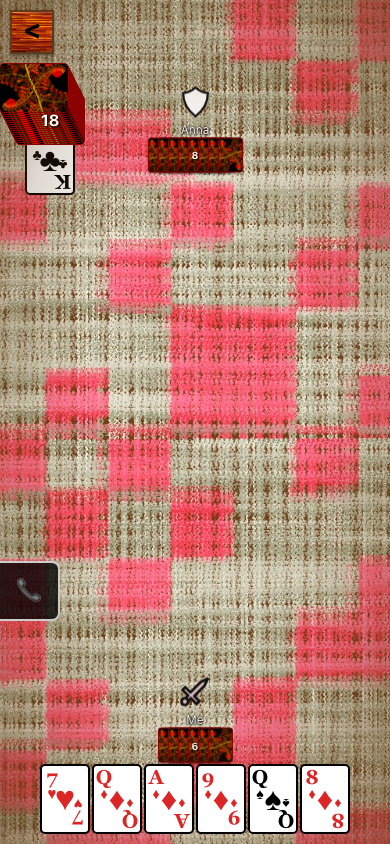
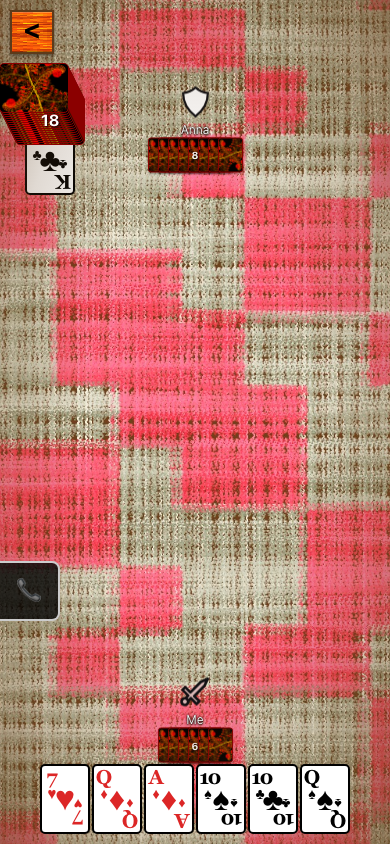
cdom_poc README: warm textures asked at start (x1: all decoded 133 against the TS page's 139; x4 326 against 171, behind the page's own start-up at x4), measured under a load of 29-73 and noted; first paint paired at low load; the 390x844 wool count back at 20,9xx (software raster), the store's toke

diff --git a/foolish/c/cdom_poc/README.md b/foolish/c/cdom_poc/README.md
@@ -31,7 +31,7 @@ Live play against c_base and sign-in are next steps, not part of this PoC; the n
 - `src/trig.c`: sin, cos and tan for the wool and the fern (musl's polynomials, a reduction for arguments below 2^28) and JS's `%` for the wood (141 lines).
 - `src/crtrig.c`: cos rounded correctly, as Chrome's is, for the wood (139 lines).
 - `src/index.html`: the page; `build.sh` inlines the minified shim into it.
-- `vendor/`: cdom from `/Users/alex/Dev/cdom-fixes`, branch port-fixes, commit 8b9266f, unchanged (`src/cdom.c`, `src/cdom.h`, `src/cdom_net.c`, `src/cdom_net.h`, `src/cdom_store.c`, `src/cdom_store.h`, `src/mini.c`, `shim/cdom.js`).
+- `vendor/`: cdom from `/Users/alex/Dev/cdom-fixes`, branch port-fixes, commit b051ddf, unchanged (`src/cdom.c`, `src/cdom.h`, `src/cdom_net.c`, `src/cdom_net.h`, `src/cdom_store.c`, `src/cdom_store.h`, `src/mini.c`, `shim/cdom.js`).
   The table links `cdom_store.c` (the textures across loads) but not `mini.c` (the kernel's libc brings memcmp and strlen) nor `cdom_net.c` (it has no network yet); the network test links the network.
 - `tests/net_test.c`, `tests/net_test.mjs`: cdom's network imports against a local echo server.
 - `tests/tex_test.c`: the texture generators alone, for `tools/texparity.mjs`.
@@ -79,7 +79,9 @@ After the first paint the DOM is the browser's: a patched card is one `style.set
 
 With textures, `shots/react_golden_tex.png` is the golden with the app's TS textures, at the app's sizes (the fern 1000x1400, the wood 1920x1080 whole, the wool 3840x2160 whole), made from the C's seeds and put where WoolBackgroundLayer, getTextureStyle, CardBack and PlayerRing put them.
 Against `shots/cdom_tex_midgame.png` 6,643 of 786,432 pixels differ, every one of them on a card back: 4,025 on the deck, 1,520 and 1,098 on the two mini hands (the fern, Textures); the wool and the wood are the same pixels.
-At 390x844 the count is 21,032: the 13,952 above (the hand, laid out for jsdom's width in the golden), the card backs, nothing on the wool.
+At 390x844 the count is 20,901 to 20,997 over three runs: the 13,952 above (the hand, laid out for jsdom's width in the golden), the card backs, nothing on the wool.
+`tools/shots.mjs` fails over a bar at both sizes (the first paint exactly as above; with textures at most 8,000 over it), and the mutant that places the wool 16 px off makes it fail (755,744).
+The shots run Chrome with `--disable-gpu-rasterization`: with GPU raster Chrome drew one large JPEG two ways, so the same wool bytes under a new url differed from themselves in about 225,000 of 329,160 pixels (by 1 to 20 a channel) in about one load in five while the machine was at a load average of 60, and a run of shots at 390x844 then counted about 245,000; it was never the texture path (the C's crop and the TS's middle decode to the same pixels, and the same bytes did it to the TS's own image).
 `shots/fern_backs.png` and `shots/fern_backs_390x844.png` put a card back of each side by side, 4x (React's left).
 
 ## Consistency
@@ -176,7 +178,8 @@ How they land: `cd_encode_image` (cdom) encodes the pixels in C memory (RGB for 
 Across loads: the bytes go into cdom's store (`cd_store_put`, IndexedDB) under a key with the generator's version and what the picture depends on (the fern's size, a hash of the wood's rectangles); a later load asks the store first (`cd_store_get`, 1,500 ms deadline) and sets what it finds, making nothing.
 The app does the same with TextureCacheDB (src/utils/textureCache.ts: keys fern_v1, wood_v2, wool_v1, reads raced against 1.5 s).
 
-When: the store is asked two frames after the first paint; making waits 50 ms more (started on a timer right after the first frame, making held `cdom.start` to 165 ms at x4 against 60).
+When: the store is asked for all four at once as the table starts (`cd_main`), and the page opens the store's database while the wasm loads (cdom's `start` option `openStore`), so a kept texture lands as soon as it is read; making waits for two frames after the first paint and 50 ms more (started on a timer right after the first frame, making held `cdom.start` to 165 ms at x4 against 60), and keeps its order, waiting for a texture the store has not answered for yet.
+The store's tokens: 0 to 3 the textures, 100 the game (`STORE_GAME`, where it is declared); `cd_on_store` hands the game's to the game first.
 Each texture is made in slices of about 8 ms on animation frames, in the order fern, wool, the table's wood, the end screen's wood, and the next one starts when the last one's file is back: Chrome encodes a PNG in idle time, and every-frame slices left none (at x4 the fern, made in 50 ms, landed 700 ms late).
 One block of 6,465,024 bytes (an 8 MiB size class) holds each in turn and goes back to cdom's free lists at the end; no block is taken when all four come from the store.
 
@@ -249,6 +252,24 @@ At x4 (`CPU=4`, measured while the load average climbed to 12 on 8 cores, so upp
 The app's warm read in the same harness (textureCache.ts getCachedTexture, each opening TextureCacheDB): fern 5.5 ms, wood 1.0, wool 0.9 at x4.
 No React figure is given: the real app's numbers need its server and bundle, which this PoC does not run.
 
+Warm loads after the store is asked at start (the follow-up; `tools/textime.mjs` now waits for the store's answer for the game, as the board does, rather than the human's turn).
+Measured under heavy load: load average 29 to 73 on 8 cores around the runs (another agent's `cnitro_eval` processes at 65 to 83% of a core each), above the core count, so every absolute here is an upper bound; the arms ran interleaved under the same load, and the ratios and the first paint within a session are the results.
+One x1 run lost its Chrome session after three rounds (a tab gone under the load; one run of `tools/test.mjs` lost it the same way and the next three passed) and is not counted.
+| | x1 port | x1 TS | x4 port | x4 TS |
+| --- | ---: | ---: | ---: | ---: |
+| warm: fern set | 40 (38-78) | 25 (23-38) | 215 (147-268) | 49 (38-61) |
+| warm: wool set | 43 (41-83) | 30 (25-43) | 245 (205-286) | 50 (40-64) |
+| warm: all decoded | 133 (122-148) | 139 (117-164) | 326 (299-367) | 171 (147-189) |
+| cold: all decoded | 941 (898-969) | 1,953 (1,924-2,311) | 2,615 (2,610-2,716) | 8,697 (6,983-8,977) |
+| first contentful paint: `?notex` / cold / warm | 81 / 79 / 74 | | 142 / 128 / 173 | |
+At x1 a warm port load now has all four decoded with the TS page (0.96 of it; 1.11 before) and sets them before its own first paint (40 against 74), which does not move.
+At x4 it is still 1.9 times the TS page: the store is asked at 53 ms (when the wasm has started) and answers about 150 ms later, behind the page's own start-up work at x4 (the game's answer, then the board's first frame); a get of 1.5 MB on an idle page takes 2 ms at x4, so it is the busy thread, not IndexedDB.
+The TS page has no start-up of its own (it asks at navigation, with nothing else to do), so this is not a comparison with the app, whose reads wait for its bundle and its mount; asking for the textures before the game moved nothing (230-310 against 210-266), and was taken back.
+At x4 the first paint went 142 / 128 / 173 (`?notex` / cold / warm) with spreads of 122-211, 117-146 and 147-218 under a load of 70, which overlap.
+Measured again once the load fell to 2-5, paired `?notex` and warm loads alternating, 15 to 41 rounds: x4 119 (114-121) against 120 (118-120) and 118 (111-121) against 115 (111-119); x1 63 (59-70) against 70 (63-77) over 41 rounds.
+The x1 warm loads paint 4 to 8 ms later than `?notex` ones (an A/A run, `?notex` against `?notex`, gives 2), and that does not come from the textures' timing: asking the store only after the board's first paint gave 65 against 69, holding a texture read before that paint until after it gave 59 against 68 and 65 against 67, and asking 400 ms after the board 60 against 68; so the store is asked at start and a kept texture is set as soon as it is read.
+
+
 The string table (`tools/strings.mjs`, three games played out by clicks):
 | | before | after |
 | --- | ---: | ---: |
@@ -263,7 +284,7 @@ Sizes:
 - `table.wasm` 75,303 bytes raw, 31,092 brotli (q11), 34,723 gzip (-9) after the consistency pass (the blob's writer and reader, `state_canonical`, `bot_wait_ms`, `anim_finish_rows`, the end screen's rows, the save's notice); before it 71,391, 29,539 and 32,872, before the texture pass 71,725, 29,589 and 32,956, before the first port-fixes pass 54,992, 22,122 and 24,870.
   musl's 2/pi table went with jsmath.c; the crop, the rectangles, the store and the keys came in.
   For scale, the React app's kernel alone, web.wasm, is 67,311 raw and 31,219 gzip (c/Makefile), before any JavaScript, and its textures are in its JavaScript.
-- The shim: cdom's own, unchanged, written to be read and inlined minified: 6,678 bytes minified, 2,632 brotli (6,553 and 2,615 in its golfed form before); cdom's PERF_LOG.md, SHIM_LINES, says what each import is for.
+- The shim: cdom's own, unchanged, written to be read and inlined minified: 6,623 bytes minified, 2,658 brotli (6,553 and 2,615 in its golfed form before); cdom's PERF_LOG.md, SHIM_LINES, says what each import is for.
   Before the first port-fixes pass the port carried 172 lines of its own patched shim.
 - The C the table is written in: 1,710 lines (`table_app.c` 1,626, with the texture pipeline and the test build's window on the kernel, `game_keep.c` and `.h` 48, `ui.h` 36, `kernel_glue.c` 20), plus the generators (385), trig.c (141) and crtrig.c (139).
 
